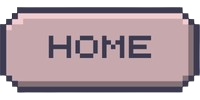
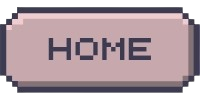
fix ui choose chara

diff --git a/src/KarakterPokemon.java b/src/KarakterPokemon.java
@@ -1,8 +1,12 @@
+import javax.imageio.ImageIO;
 import javax.swing.*;
 import java.awt.*;
 import java.awt.event.*;
+import java.awt.image.BufferedImage;
+import java.io.File;
+import java.io.IOException;
 
-public class KarakterPokemon extends JFrame {
+public class KarakterPokemon extends JPanel {
     private String selectedCharacter = null;
 
     // Data Pokémon
@@ -63,10 +67,10 @@ public class KarakterPokemon extends JFrame {
     };
 
     public KarakterPokemon() {
-        setTitle("Pemilihan Karakter Pokemon");
+        // setTitle("Pemilihan Karakter Pokemon");
         setSize(1400, 750);
-        setDefaultCloseOperation(JFrame.EXIT_ON_CLOSE);
-        setLocationRelativeTo(null);
+        // setDefaultCloseOperation(JFrame.EXIT_ON_CLOSE);
+        // setLocationRelativeTo(null);
         setLayout(new BorderLayout(10, 10));
 
         // Panel utama dengan background gambar
@@ -75,7 +79,7 @@ public class KarakterPokemon extends JFrame {
             protected void paintComponent(Graphics g) {
                 super.paintComponent(g);
                 try {
-                    Image backgroundImage = new ImageIcon(getClass().getResource("/assets/bg-character.png"))
+                    Image backgroundImage = new ImageIcon("assets/bg-character.png")
                             .getImage();
                     g.drawImage(backgroundImage, 0, 0, getWidth(), getHeight(), this);
                 } catch (Exception e) {
@@ -105,46 +109,66 @@ public class KarakterPokemon extends JFrame {
         buttonPanel.setOpaque(false);
         buttonPanel.setBorder(BorderFactory.createEmptyBorder(0, 50, 0, 50));
 
-        JButton backButton = new JButton();
+        BufferedImage backImage = null;
         try {
-            ImageIcon backIcon = new ImageIcon(getClass().getResource("/assets/home.png"));
-            if (backIcon.getImage() != null) {
-                Image scaledBackImage = backIcon.getImage().getScaledInstance(140, 50, Image.SCALE_SMOOTH);
-                backButton.setIcon(new ImageIcon(scaledBackImage));
-                backButton.setBorderPainted(false);
-                backButton.setContentAreaFilled(false);
-            } else {
-                backButton.setText("Back");
-            }
-        } catch (Exception e) {
-            backButton.setText("Back");
-            System.err.println("Kesalahan memuat gambar back_icon: " + e.getMessage());
+            backImage = ImageIO.read(new File("assets//home.png"));
+        } catch (IOException e) {
+            throw new RuntimeException(e);
         }
-        backButton.setPreferredSize(new Dimension(140, 50));
+        Image back = backImage.getScaledInstance(120, 60, Image.SCALE_SMOOTH);
+        JButton backButton = new JButton(new ImageIcon(back));
+        // JButton backButton = new JButton();
+        // try {
+        // ImageIcon backIcon = new ImageIcon("assets/home.png");
+        // if (backIcon.getImage() != null) {
+        // Image scaledBackImage = backIcon.getImage().getScaledInstance(140, 50,
+        // Image.SCALE_SMOOTH);
+        // backButton.setIcon(new ImageIcon(scaledBackImage));
+        backButton.setBorderPainted(false);
+        backButton.setContentAreaFilled(false);
+        // } else {
+        // backButton.setText("Back");
+        // }
+        // } catch (Exception e) {
+        // backButton.setText("Back");
+        // System.err.println("Kesalahan memuat gambar back_icon: " + e.getMessage());
+        // }
+        // backButton.setPreferredSize(new Dimension(140, 50));
         backButton.addActionListener(e -> {
             JOptionPane.showMessageDialog(this, "Kembali ke halaman Home!");
         });
 
         // Tombol Start
-        JButton startButton = new JButton();
+        BufferedImage startImage = null;
         try {
-            ImageIcon startIcon = new ImageIcon(getClass().getResource("/assets/start.png"));
-            if (startIcon.getImage() != null) {
-                Image scaledStartImage = startIcon.getImage().getScaledInstance(200, 180, Image.SCALE_SMOOTH);
-                startButton.setIcon(new ImageIcon(scaledStartImage));
-                startButton.setBorderPainted(false);
-                startButton.setContentAreaFilled(false);
-            } else {
-                startButton.setText("Start");
-            }
-        } catch (Exception e) {
-            startButton.setText("Start");
-            System.err.println("Kesalahan memuat gambar start : " + e.getMessage());
+            startImage = ImageIO.read(new File("assets//start.png"));
+        } catch (IOException e) {
+            throw new RuntimeException(e);
         }
-        startButton.setPreferredSize(new Dimension(200, 180));
+        Image start = startImage.getScaledInstance(120, 60, Image.SCALE_SMOOTH);
+        JButton startButton = new JButton(new ImageIcon(start));
+
+        // JButton startButton = new JButton();
+        // try {
+        // ImageIcon startIcon = new ImageIcon("assets/start.png");
+        // if (startIcon.getImage() != null) {
+        // Image scaledStartImage = startIcon.getImage().getScaledInstance(200, 180,
+        // Image.SCALE_SMOOTH);
+        // startButton.setIcon(new ImageIcon(scaledStartImage));
+        startButton.setBorderPainted(false);
+        startButton.setContentAreaFilled(false);
+        // } else {
+        // startButton.setText("Start");
+        // }
+        // } catch (Exception e) {
+        // startButton.setText("Start");
+        // System.err.println("Kesalahan memuat gambar start : " + e.getMessage());
+        // }
+        // startButton.setPreferredSize(new Dimension(200, 180));
         startButton.addActionListener(e -> {
             if (selectedCharacter != null) {
                 JOptionPane.showMessageDialog(this, "Memulai permainan dengan " + selectedCharacter + "!");
+                // ambil characternya
             } else {
                 JOptionPane.showMessageDialog(this, "Silakan pilih karakter terlebih dahulu!");
             }
@@ -167,35 +191,28 @@ public class KarakterPokemon extends JFrame {
 
         // GIF
         String gifPath = switch (pokemonName) {
-            case "Pikachu" -> "/assets/charmon/pikachu-f.gif";
-            case "Bulbasaur" -> "/assets/charmon/bulbasaur-f.gif";
-            case "Squirtle" -> "/assets/charmon/squirtle-f.gif";
-            case "Charmander" -> "/assets/charmon/charmander-f.gif";
-            case "Hoothoot" -> "/assets/charmon/hoothoot-f.gif";
-            case "Pidgey" -> "/assets/charmon/pidgey-f.gif";
-            case "Jigglypuff" -> "/assets/charmon/jigglypuff-f.gif";
-            case "Meowth" -> "/assets/charmon/meowth-f.gif";
-            case "Growlithe" -> "/assets/charmon/growlithe-f.gif";
-            case "Eevee" -> "/assets/charmon/eevee-f.gif";
-            case "Flareon" -> "/assets/charmon/flareon-f.gif";
-            case "Nidoran" -> "/assets/charmon/nidoran-f.gif";
-            case "Clefairy" -> "/assets/charmon/clefairy-f.gif";
-            case "Abra" -> "/assets/charmon/abra-f.gif";
-            case "Sandshrew" -> "/assets/charmon/Sandshrew-f.gif";
-            default -> "/assets/charmon/default.gif";
+            case "Pikachu" -> "assets\\charmon\\pikachu-f.gif";
+            case "Bulbasaur" -> "assets\\charmon\\bulbasaur-f.gif";
+            case "Squirtle" -> "assets\\charmon\\squirtle-f.gif";
+            case "Charmander" -> "assets\\charmon\\charmander-f.gif";
+            case "Hoothoot" -> "assets\\charmon\\hoothoot-f.gif";
+            case "Pidgey" -> "assets\\charmon\\pidgey-f.gif";
+            case "Jigglypuff" -> "assets\\charmon\\jigglypuff-f.gif";
+            case "Meowth" -> "assets\\charmon\\meowth-f.gif";
+            case "Growlithe" -> "assets\\charmon\\growlithe-f.gif";
+            case "Eevee" -> "assets\\charmon\\eevee-f.gif";
+            case "Flareon" -> "assets\\charmon\\flareon-f.gif";
+            case "Nidoran" -> "assets\\charmon\\nidoran-f.gif";
+            case "Clefairy" -> "assets\\charmon\\clefairy-f.gif";
+            case "Abra" -> "assets\\charmon\\abra-f.gif";
+            case "Sandshrew" -> "assets\\charmon\\Sandshrew-f.gif";
+            default -> "assets\\charmon\\default.gif";
         };
 
         JLabel imageLabel;
         try {
-            java.net.URL imgURL = getClass().getResource(gifPath);
-            if (imgURL != null) {
-                imageLabel = new JLabel(new ImageIcon(imgURL));
-            } else {
-                imageLabel = new JLabel(pokemonName + " Image", SwingConstants.CENTER);
-                imageLabel.setBackground(new Color(174, 177, 127));
-                imageLabel.setOpaque(true);
-                System.err.println("Gambar tidak ditemukan: " + gifPath);
-            }
+            // java.net.URL imgURL = getClass().getResource(gifPath);
+            imageLabel = new JLabel(new ImageIcon(gifPath));
         } catch (Exception e) {
             imageLabel = new JLabel(pokemonName + " Image", SwingConstants.CENTER);
             imageLabel.setBackground(new Color(0xDCA0A6));
@@ -224,7 +241,7 @@ public class KarakterPokemon extends JFrame {
 
     // Pop-up detail karakter
     private void showCharacterPopup(String pokemonName) {
-        JDialog popup = new JDialog(this, pokemonName + " Details", true);
+        JDialog popup = new JDialog(Main.frame, pokemonName + " Details", true);
         popup.setSize(600, 400); // Ukuran tetap 600x400
         popup.setLocationRelativeTo(this);
         popup.setLayout(new BorderLayout(5, 5));
@@ -242,35 +259,28 @@ public class KarakterPokemon extends JFrame {
         imagePanel.setBackground(new Color(0xDCA0A6));
         imagePanel.setBorder(BorderFactory.createEmptyBorder(0, 20, 0, 0)); // Added 20px left padding
         String gifPath = switch (pokemonName) {
-            case "Pikachu" -> "/assets/charmon/pikachu-f.gif";
-            case "Bulbasaur" -> "/assets/charmon/bulbasaur-f.gif";
-            case "Squirtle" -> "/assets/charmon/squirtle-f.gif";
-            case "Charmander" -> "/assets/charmon/charmander-f.gif";
-            case "Hoothoot" -> "/assets/charmon/hoothoot-f.gif";
-            case "Pidgey" -> "/assets/charmon/pidgey-f.gif";
-            case "Jigglypuff" -> "/assets/charmon/jigglypuff-f.gif";
-            case "Meowth" -> "/assets/charmon/meowth-f.gif";
-            case "Growlithe" -> "/assets/charmon/growlithe-f.gif";
-            case "Eevee" -> "/assets/charmon/eevee-f.gif";
-            case "Flareon" -> "/assets/charmon/flareon-f.gif";
-            case "Nidoran" -> "/assets/charmon/nidoran-f.gif";
-            case "Clefairy" -> "/assets/charmon/clefairy-f.gif";
-            case "Abra" -> "/assets/charmon/abra-f.gif";
-            case "Sandshrew" -> "/assets/charmon/Sandshrew-f.gif";
-            default -> "/assets/charmon/default.gif";
+            case "Pikachu" -> "assets\\charmon\\pikachu-f.gif";
+            case "Bulbasaur" -> "assets\\charmon\\bulbasaur-f.gif";
+            case "Squirtle" -> "assets\\charmon\\squirtle-f.gif";
+            case "Charmander" -> "assets\\charmon\\charmander-f.gif";
+            case "Hoothoot" -> "assets\\charmon\\hoothoot-f.gif";
+            case "Pidgey" -> "assets\\charmon\\pidgey-f.gif";
+            case "Jigglypuff" -> "assets\\charmon\\jigglypuff-f.gif";
+            case "Meowth" -> "assets\\charmon\\meowth-f.gif";
+            case "Growlithe" -> "assets\\charmon\\growlithe-f.gif";
+            case "Eevee" -> "assets\\charmon\\eevee-f.gif";
+            case "Flareon" -> "assets\\charmon\\flareon-f.gif";
+            case "Nidoran" -> "assets\\charmon\\nidoran-f.gif";
+            case "Clefairy" -> "assets\\charmon\\clefairy-f.gif";
+            case "Abra" -> "assets\\charmon\\abra-f.gif";
+            case "Sandshrew" -> "assets\\charmon\\Sandshrew-f.gif";
+            default -> "assets\\charmon\\default.gif";
         };
 
         JLabel imageLabel;
         try {
-            java.net.URL imgURL = getClass().getResource(gifPath);
-            if (imgURL != null) {
-                imageLabel = new JLabel(new ImageIcon(imgURL));
-            } else {
-                imageLabel = new JLabel(pokemonName + " Image", SwingConstants.CENTER);
-                imageLabel.setBackground(Color.LIGHT_GRAY);
-                imageLabel.setOpaque(true);
-                System.err.println("Gambar tidak ditemukan: " + gifPath);
-            }
+            // java.net.URL imgURL = gifPath;
+            imageLabel = new JLabel(new ImageIcon(gifPath));
         } catch (Exception e) {
             imageLabel = new JLabel(pokemonName + " Image", SwingConstants.CENTER);
             imageLabel.setBackground(Color.LIGHT_GRAY);
@@ -386,14 +396,20 @@ public class KarakterPokemon extends JFrame {
         JPanel buttonPanel = new JPanel(new FlowLayout(FlowLayout.CENTER));
         buttonPanel.setOpaque(false);
         buttonPanel.setBorder(BorderFactory.createEmptyBorder(2, 0, 3, 0));
-
-        JButton selectButton = new JButton("SELECT");
-        selectButton.setBackground(new Color(0xAE757F));
-        selectButton.setForeground(Color.BLACK);
-        selectButton.setFont(new Font("Arial", Font.BOLD, 14));
+        BufferedImage selectImage = null;
+        try {
+            selectImage = ImageIO.read(new File("assets//select.png"));
+        } catch (IOException e) {
+            throw new RuntimeException(e);
+        }
+        Image select = selectImage.getScaledInstance(100, 50, Image.SCALE_SMOOTH);
+        JButton selectButton = new JButton(new ImageIcon(select));
+        // selectButton.setBackground(new Color(0xAE757F));
+        // selectButton.setForeground(Color.BLACK);
+        // selectButton.setFont(new Font("Arial", Font.BOLD, 14));
         selectButton.setFocusPainted(false);
-        selectButton.setPreferredSize(new Dimension(120, 30));
-        selectButton.setContentAreaFilled(true);
+        // selectButton.setPreferredSize(new Dimension(120, 50));
+        selectButton.setContentAreaFilled(false);
         selectButton.addActionListener(e -> {
             selectedCharacter = pokemonName;
             JOptionPane.showMessageDialog(popup, pokemonName + " dipilih!");
@@ -407,9 +423,9 @@ public class KarakterPokemon extends JFrame {
         popup.setVisible(true);
     }
 
-    public static void main(String[] args) {
-        SwingUtilities.invokeLater(() -> {
-            new KarakterPokemon().setVisible(true);
-        });
-    }
+    // public static void main(String[] args) {
+    // SwingUtilities.invokeLater(() -> {
+    // new KarakterPokemon().setVisible(true);
+    // });
+    // }
 }

diff --git a/src/Onboard.java b/src/Onboard.java
@@ -44,7 +44,7 @@ public class Onboard {
         // newGame.setFont(new Font("Verdana", Font.BOLD, 20));
         newGame.setBorderPainted(false);
         newGame.setContentAreaFilled(false);
-        newGame.setBounds(600, 300, 200, 100);
+        newGame.setBounds(600, 350, 200, 100);
         // c.gridx = 0;
         // c.gridy = 1;
         // c.gridwidth = 1;
@@ -63,7 +63,7 @@ public class Onboard {
         // resumeGame.setFont(new Font("Verdana", Font.BOLD, 20));
         resumeGame.setBorderPainted(false);
         resumeGame.setContentAreaFilled(false);
-        resumeGame.setBounds(600, 400, 200, 100);
+        resumeGame.setBounds(600, 450, 200, 100);
         // c.gridx = 1;
         // c.gridy = 1;
         // c.gridwidth = 1;
@@ -76,7 +76,7 @@ public class Onboard {
         JButton exitGame = new JButton(exit);
         exitGame.setBorderPainted(false);
         exitGame.setContentAreaFilled(false);
-        exitGame.setBounds(600, 500, 200, 100);
+        exitGame.setBounds(600, 550, 200, 100);
         // c.gridx = 0;
         // c.gridy = 2;
         // c.gridwidth = 2;
